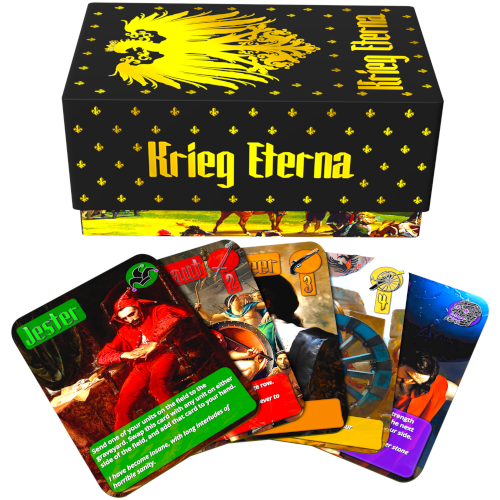
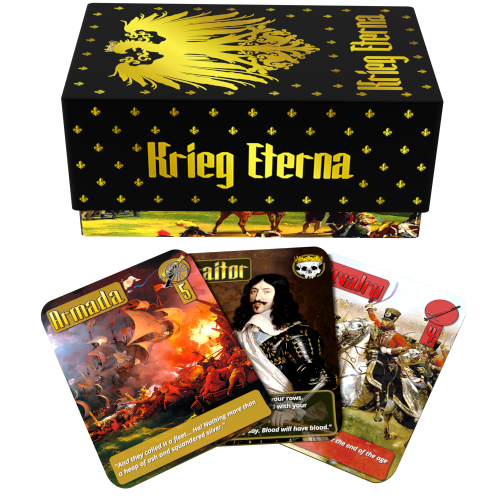
refactor, plus added landing page for testing

diff --git a/web/layouts/shortcodes/product-showcase-section.html b/web/layouts/shortcodes/product-showcase-section.html
@@ -1,0 +1,55 @@
+<section class="gradient even-gradient">
+    <div class="main-section" id="product">
+        <div class="sub-section">
+            <div class="title-wrapper">
+                {{ partial "outlined-title" (dict "title" "Products" "h" "h2" "class" "main-title")}}
+            </div>
+        </div>
+        <div class="css-3c0LG product-scroll-box" style="--container-max-width:1200px;">
+            <div class="product-box-outer">
+                <div class="product-box-wrapper">
+                    <div class="swiper-slide product-box swiper-slide-next">
+                        <picture>
+                            <source srcset="/images/DeluxeDeckRender.png?fm=webp" type="image/webp">
+                            <img src="/images/DeluxeDeckRender.png" alt="" width="400" height="433" loading="lazy">
+                        </picture>
+                        <div>
+                            <h4 class="product-title" data-text="Standard Edition">Krieg Eterna<h4>
+                        </div>
+                        <div class="product-price">
+                            <p>$29.99
+                            </p>
+                        </div>
+                        <div class="product-desc">
+                        <hr>
+                            <p>A fast-paced strategic card game set during the Thirty Years' War. Victory on the battlefield will require deception, skill, and a little luck!
+                            </p>
+                        </div>
+                        <div class="css-cW5DV">
+                            <div class="css-nd7IL">
+                                <div>
+                                    <div class="css-AX10X">
+                                        <a {{ partial "tracking-code" .Page | safeHTMLAttr }} target="_blank" rel="noopener">
+                                            <button class="css-lV1Vi buy-product-button css-ExOVn">
+                                                Buy Now&nbsp{{partial "icon-link"}}
+                                            </button>
+                                        </a>
+                <!-- Beginning of Buy With Prime Widget --
+        <script async fetchpriority='high' src='https://code.buywithprime.amazon.com/bwp.v1.js'></script>
+        <div
+            id="amzn-buy-now"
+            data-site-id="zm37qpw6y6"
+            data-widget-id="w-J5EhprFtkk1J9d75bFUCK3"
+            data-sku="QU-B39T-6LQM"
+        ></div>
+        !-- End of Buy With Prime Widget -->
+                                    </div>
+                                </div>
+                            </div>
+                        </div>
+                    </div>
+                </div>
+            </div>
+        </div>
+    </div>
+</section>

diff --git a/web/layouts/shortcodes/card-gallery-section.html b/web/layouts/shortcodes/card-gallery-section.html
@@ -1,0 +1,32 @@
+<section id="new-cards-showcase" class="gradient even-gradient">
+    <div class="main-section">
+        <div class="sub-section">
+            <div class="title-wrapper">
+                {{ partial "outlined-title" (dict "title" "Meet Your Army" "h" "h2" "class" "main-title")}}
+            </div>
+            <p class="css-tg8OC">
+                Your units do the fighting, and your King and power cards make the
+                round interesting! You’ll have to learn how to use them together in order to win.
+                With over <a href="/compendium">100 unique cards</a>, the possibilities are endless!
+            </p>
+        </div>
+        <div class="css-XorOV" style="--container-flex-direction:column-reverse;">
+            <div class="css-JEZym" style="--intersection-offset:0;">
+            </div>
+            <div class="">
+                <div class="swiper swiper-initialized swiper-horizontal swiper-pointer-events swiper-backface-hidden">
+                    <div class="swiper-wrapper card-scroll-box">
+                        {{partial "cardflip" (dict "Params" (dict "front" "Calvary" "back" "Flag" "disallowScale"
+                        "mobile" ))}}
+                        {{partial "cardflip" (dict "Params" (dict "front" "TraitorKing" "back" "FlagKing" "disallowScale" "mobile" ))}}
+                        {{partial "cardflip" (dict "Params" (dict "front" "Armada" "back" "Flag" "disallowScale" "mobile" ))}}
+                        {{partial "cardflip" (dict "Params" (dict "front" "Saboteur" "back" "FlagPower" "disallowScale" "mobile" ))}}
+                        {{partial "cardflip" (dict "Params" (dict "front" "Ruin" "back" "FlagPower" "disallowScale" "mobile" ))}}
+                        {{partial "cardflip" (dict "Params" (dict "front" "Fortress" "back" "Flag" "disallowScale" "mobile" ))}}
+
+                    </div>
+                </div>
+            </div>
+        </div>
+    </div>
+</section>

diff --git a/web/layouts/shortcodes/slanted-section.html b/web/layouts/shortcodes/slanted-section.html
@@ -1,0 +1,26 @@
+<section class="no-gradient">
+    <div class="main-section" style="padding-top: 0">
+        <div class="top-flex">
+            <picture>
+            <source srcset="/images/battle-1600x1080-100.jpg" media="(min-width: 1024px)">
+            <source srcset="/images/battle-1023x600-100.jpg" media="(min-width: 768px)">
+            <source srcset="/images/battle-767x600-100.jpg" media="(min-width: 576px)">
+            <source srcset="/images/battle-575x700-100.jpg"> 
+            <img src="/images/battle-1600x1080-100.jpg" class="top-img">
+            </picture>
+            <div class="top-slanted">
+                <div class="top-info-box">
+                    <picture>
+                        <img src="/images/Title.png">
+                    </picture>
+                    <div class="title-wrapper">
+                        <h4 class="top-title">A Battle For The Ages</h4>
+                    </div>
+                    <div class="top-paragraph">
+                        <p>Kings and Armies assemble in the fields of Europe. Whether it be for God, glory or gold, the Continent marches to war! <a href= "/how-to-play/">Find out how to lead your army.</a></p>
+                    </div>
+                </div>
+            </div>
+        </div>
+    </div>
+</section>

diff --git a/web/layouts/partials/icon-stars.html b/web/layouts/partials/icon-stars.html
@@ -1,0 +1,9 @@
+<svg xmlns="http://www.w3.org/2000/svg" xmlns:xlink="http://www.w3.org/1999/xlink" fill="currentColor"class="stars" version="1.1" id="Capa_1" viewBox="0 0 490 350" xml:space="preserve">
+<g>
+	<polygon points="60.44,233.482 48.895,196.215 37.351,233.482 0,233.482 30.22,256.513 18.676,293.785 48.895,270.744    79.115,293.785 67.571,256.513 97.791,233.482  "/>
+	<polygon points="158.492,233.482 146.948,196.215 135.403,233.482 98.052,233.482 128.272,256.513 116.728,293.785    146.948,270.744 177.168,293.785 165.623,256.513 195.843,233.482  "/>
+	<polygon points="256.544,233.482 245,196.215 233.456,233.482 196.104,233.482 226.324,256.513 214.78,293.785 245,270.744    275.22,293.785 263.676,256.513 293.895,233.482  "/>
+	<polygon points="354.596,233.482 343.052,196.215 331.508,233.482 294.157,233.482 324.377,256.513 312.832,293.785    343.052,270.744 373.272,293.785 361.728,256.513 391.948,233.482  "/>
+	<polygon points="441.105,196.215 429.56,233.482 392.209,233.482 422.429,256.513 410.885,293.785 441.105,270.744    471.324,293.785 459.78,256.513 490,233.482 452.649,233.482  "/>
+</g>
+</svg>

diff --git a/web/layouts/partials/amazonbanner.html b/web/layouts/partials/amazonbanner.html
@@ -3,8 +3,7 @@
     <div class="css-wZoSr">
       <div class="css-Lb4w4">
         <div class="css-TXZf4">
-          <a href="https://www.amazon.com/dp/B0CJHWGZYF?maas=maas_adg_3D8873ABA7D50C8B8D9E95ECC82A19D9_afap_abs&ref_=aa_maas&tag=maas" target="_blank"
-              rel="noopener" class="button-highlight css-2dGqW css-aqU36">
+          <a {{ partial "tracking-code" . | safeHTMLAttr }} rel="noopener" class="button-highlight css-2dGqW css-aqU36">
             <span
               class="nav-links css-KalfM css-lmKD site-button">
               <picture aria-hidden="true"><img src="/images/icon-amazon.svg" alt=""

diff --git a/web/assets/style.css b/web/assets/style.css
@@ -1159,6 +1159,32 @@ img {
         min-width: 90%;
     }
 }
+.review {
+    align-items: center;
+    display: block;
+}
+.review-text{
+    align-items: center;
+    margin: auto;
+    text-align: center;
+    font-size: 25px;
+    display: block;
+}
+.review-name{
+    align-items: center;
+    margin: auto;
+    text-align: right;
+    font-size: 25px;
+    display: block;
+}
+.stars {
+    color: var(--theme-accent-color);
+    width: 30vw;
+    height: 15vh;
+    margin: auto;
+    margin-top: -7vh;
+    display: block;
+}
 
 .card-detail {
     width: min(400px, 90%);

diff --git a/web/layouts/_default/baseof.html b/web/layouts/_default/baseof.html
@@ -85,11 +85,10 @@
 					</ul>
 
 				</nav>
-
 				<nav class="nav permanent-nav">
 					<ul class="nav-links nav-list">
 						<li class="permanent-nav"><a
-								href="https://www.amazon.com/dp/B0CJHWGZYF?maas=maas_adg_3D8873ABA7D50C8B8D9E95ECC82A19D9_afap_abs&ref_=aa_maas&tag=maas"
+								{{ partial "tracking-code" . | safeHTMLAttr }}
 								class="nav-link" target="_blank">
 								Buy Now&nbsp{{ partial "icon-link.html" . }}
 							</a>

diff --git a/web/layouts/shortcodes/review.html b/web/layouts/shortcodes/review.html
@@ -1,0 +1,17 @@
+<section class="gradient no-gradient">
+	<div class="main-section" id="product">
+		<div class="sub-section subscribe-form-box">
+			<div class="review">
+				{{partial "icon-stars" .}}
+				<p class="review-text">
+					{{.Inner}}
+				</p>
+				<br>
+				<br>
+				<p class="review-name">
+					- {{.Params.name}}
+				</p>
+			</div>
+		</div>
+	</div>
+</section>

diff --git a/web/layouts/partials/tracking-code.html b/web/layouts/partials/tracking-code.html
@@ -1,0 +1,5 @@
+{{if .Params.trackingCode}}
+href="{{.Params.trackingCode}}"
+{{else}}
+href="https://www.amazon.com/dp/B0CJHWGZYF?maas=maas_adg_3D8873ABA7D50C8B8D9E95ECC82A19D9_afap_abs&ref_=aa_maas&tag=maas"
+{{end}}

diff --git a/web/content/_index.md b/web/content/_index.md
@@ -4,116 +4,11 @@ description: 'Krieg Eterna'
 layout: single
 ---
 
-<section class="no-gradient">
-    <div class="main-section" style="padding-top: 0">
-        <div class="top-flex">
-            <picture>
-            <source srcset="/images/battle-1600x1080-100.jpg" media="(min-width: 1024px)">
-            <source srcset="/images/battle-1023x600-100.jpg" media="(min-width: 768px)">
-            <source srcset="/images/battle-767x600-100.jpg" media="(min-width: 576px)">
-            <source srcset="/images/battle-575x700-100.jpg"> 
-            <img src="/images/battle-1600x1080-100.jpg" class="top-img">
-            </picture>
-            <div class="top-slanted">
-                <div class="top-info-box">
-                    <picture>
-                        <img src="/images/Title.png">
-                    </picture>
-                    <div class="title-wrapper">
-                        <h4 class="top-title">A Battle For The Ages</h4>
-                    </div>
-                    <div class="top-paragraph">
-                        <p>Kings and Armies assemble in the fields of Europe. Whether it be for God, glory or gold, the Continent marches to war!</p>
-                    </div>
-                </div>
-            </div>
-        </div>
-    </div>
-</section>
+{{<slanted-section>}}
 
-<section id="new-cards-showcase" class="gradient even-gradient">
-    <div class="main-section">
-        <div class="sub-section">
-            <div class="title-wrapper">
-                {{< outlined-title title="Meet Your Army" h="h2" class="main-title">}}
-            </div>
-            <p class="css-tg8OC">
-                Your units do the fighting, and your King and power cards make the
-                round interesting! You’ll have to learn how to use them together in order to win.
-                With over <a href="/compendium">100 unique cards</a>, the possibilities are endless!
-            </p>
-        </div>
-        <div class="css-XorOV" style="--container-flex-direction:column-reverse;">
-            <div class="css-JEZym" style="--intersection-offset:0;">
-            </div>
-                {{< card-scroll-gallery >}}
-                    {{< cardflip front="Calvary" back="Flag" disallowScale="mobile" >}}
-                    {{< cardflip front="TraitorKing" back="FlagKing" disallowScale="mobile" >}}
-                    {{< cardflip front="Armada" back="Flag" disallowScale="mobile" >}}
-                    {{< cardflip front="Saboteur" back="FlagPower" disallowScale="mobile" >}}
-                    {{< cardflip front="Ruin" back="FlagPower" disallowScale="mobile" >}}
-                    {{< cardflip front="Fortress" back="Flag" disallowScale="mobile" >}}
-                {{</ card-scroll-gallery >}}
-        </div>
-    </div>
-</section>
+{{<card-gallery-section>}}
 
-<section class="gradient even-gradient">
-    <div class="main-section" id="product">
-        <div class="sub-section">
-            <div class="title-wrapper">
-                {{< outlined-title title="Products" h="h2" class="main-title">}}
-            </div>
-        </div>
-        <div class="css-3c0LG product-scroll-box" style="--container-max-width:1200px;">
-            <div class="product-box-outer">
-                <div class="product-box-wrapper">
-                    <div class="swiper-slide product-box swiper-slide-next">
-                        <picture>
-                            <source srcset="/images/DeluxeDeckRender.png?fm=webp" type="image/webp">
-                            <img src="/images/DeluxeDeckRender.png" alt="" width="400" height="433" loading="lazy">
-                        </picture>
-                        <div>
-                            <h4 class="product-title" data-text="Standard Edition">Krieg Eterna<h4>
-                        </div>
-                        <div class="product-price">
-                            <p>$29.99
-                            </p>
-                        </div>
-                        <div class="product-desc">
-                        <hr>
-                            <p>A fast-paced strategic card game set during the Thirty Years' War. Victory on the battlefield will require deception, skill, and a little luck!
-                            </p>
-                        </div>
-                        <div class="css-cW5DV">
-                            <div class="css-nd7IL">
-                                <div>
-                                    <div class="css-AX10X">
-                                        <a href="https://www.amazon.com/dp/B0CJHWGZYF?maas=maas_adg_3D8873ABA7D50C8B8D9E95ECC82A19D9_afap_abs&ref_=aa_maas&tag=maas"
-                                            target="_blank" rel="noopener">
-                                            <button class="css-lV1Vi buy-product-button css-ExOVn">
-                                                Buy Now&nbsp{{< icon-link >}}
-                                            </button>
-                                        </a>
-                <!-- Beginning of Buy With Prime Widget --
-        <script async fetchpriority='high' src='https://code.buywithprime.amazon.com/bwp.v1.js'></script>
-        <div
-            id="amzn-buy-now"
-            data-site-id="zm37qpw6y6"
-            data-widget-id="w-J5EhprFtkk1J9d75bFUCK3"
-            data-sku="QU-B39T-6LQM"
-        ></div>
-        !-- End of Buy With Prime Widget -->
-                                    </div>
-                                </div>
-                            </div>
-                        </div>
-                    </div>
-                </div>
-            </div>
-        </div>
-    </div>
-</section>
+{{<product-showcase-section>}}
 
 <section class="no-gradient">
     <div class="main-section" style="padding-bottom: 1em;">

diff --git a/web/content/landing-a.md b/web/content/landing-a.md
@@ -1,0 +1,34 @@
+---
+title: "Landing Page"
+description: 'Krieg Eterna'
+layout: single
+trackingCode: "https://www.amazon.com/dp/B0CJHWGZYF?maas=maas_adg_A496CD4726DD0C73C780550049183CF5_afap_abs&ref_=aa_maas&tag=maas"
+---
+
+
+{{<product-showcase-section>}}
+
+{{<card-gallery-section>}}
+
+{{<review name= "Owen" text="So many ways to play this game! After hours of gameplay I’m still coming up with new strategies and ways to win, definitely recommend if you want a unique and exciting card game.">}}
+So many ways to play this game! After hours of gameplay I’m still coming up with new strategies and ways to win, definitely recommend if you want a unique and exciting card game.
+{{</review>}}
+
+{{<slanted-section>}}
+<section class="no-gradient">
+    <div class="main-section" style="padding-bottom: 1em;">
+        <div class="sub-section video-box">
+            <div class="title-wrapper">
+                <h4>Watch the trailer</h4>
+            </div>
+            {{< vid  "https://www.youtube.com/embed/yg5-dz9aM1E?si=bkm7HJy2CCnukqN-&autoplay=0&origin=http://example.com">}}
+        </div>
+    </div>
+</section>
+{{<review name= "Andrew">}}
+Fun quick games with lots of variety between sessions. <br> Would recommend!
+{{</review>}}
+
+<section class="no-gradient">
+    {{< news-letter-signup >}}
+</section>
